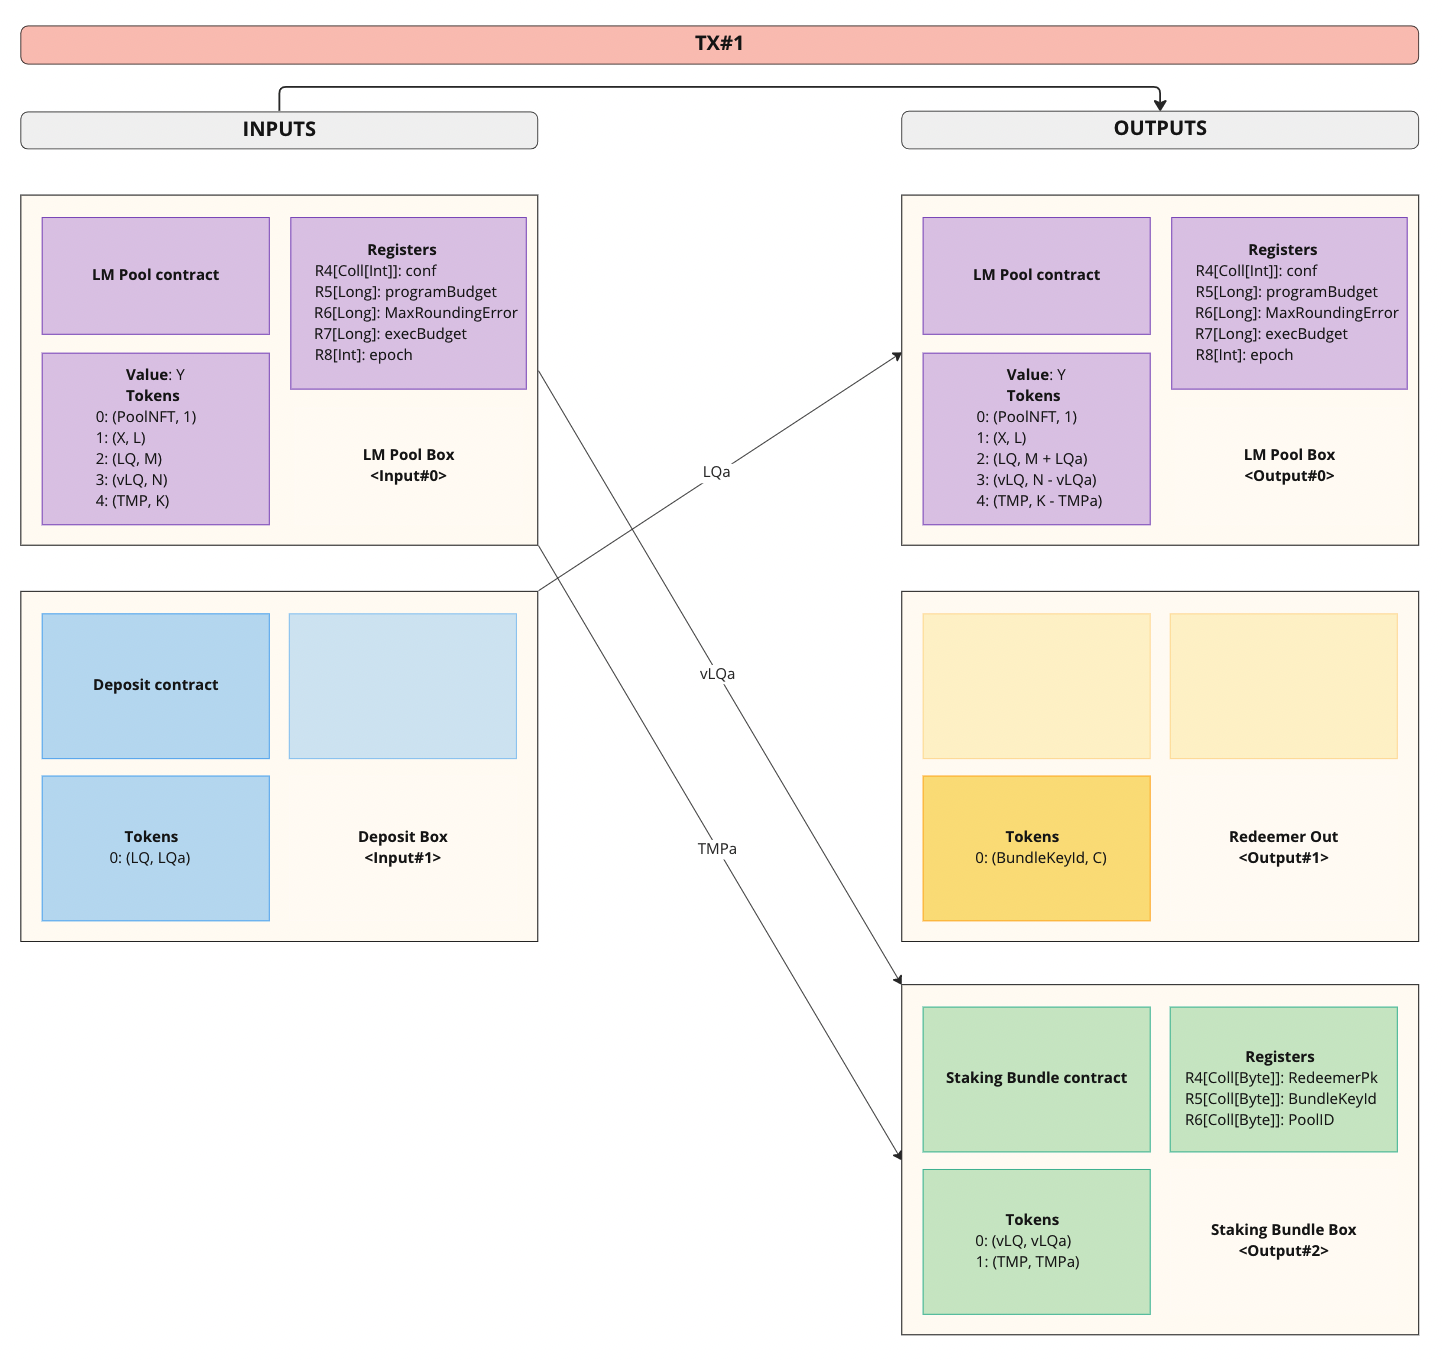
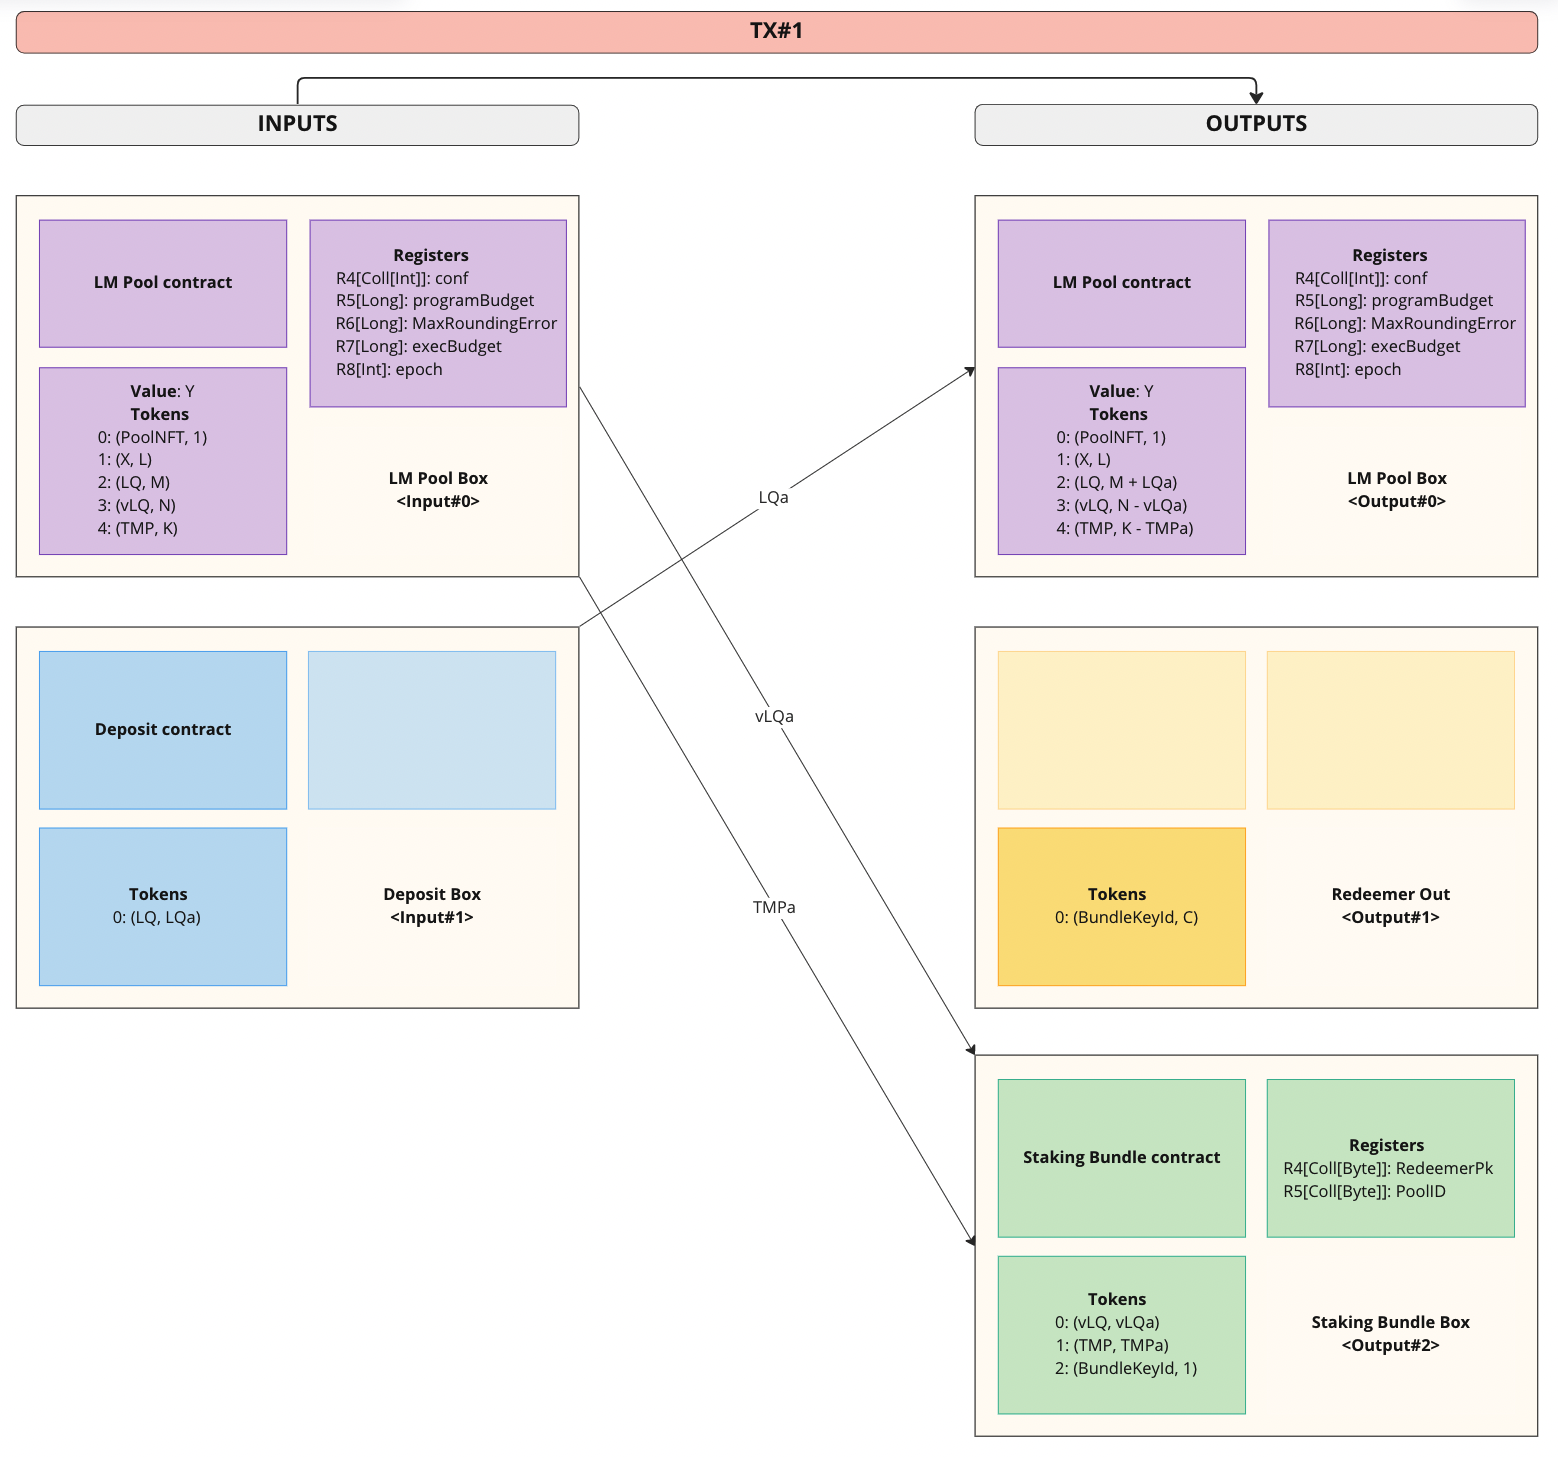
Tests updated.

diff --git a/protocols/LqMiningSimple.md b/protocols/LqMiningSimple.md
@@ -24,23 +24,25 @@ _Notes_:
 * `epoch` **indexing starts from 1**
 
 ### Tokens
-| Name           | Description                            |
-|----------------|----------------------------------------|
-| Pool ID        | An NFT to identify the pool            |
-| Reward token   | Budget of the LM program               |
-| LQ token       | Locked LQ tokens                       |
-| vLQ token      | Tokens representing locked share of LQ |
-| Temporal Token | Left program epochs times liquidity    |
+| Name             | Description                                                           |
+|------------------|-----------------------------------------------------------------------|
+| Pool ID          | An NFT to identify the pool                                           |
+| Reward token     | Budget of the LM program                                              |
+| LQ token         | Locked LQ tokens                                                      |
+| vLQ token        | Tokens representing locked share of LQ                                |
+| Temporal Token   | Left program epochs times liquidity                                   |
+| Bundle Key Token | Token that is used to identify the ownership of the Staking bundle    |
 
 ## Staking bundle
 Staking bundle is responsible for holding vLQ and Temporal tokens (Tmp). Staking bundle script guarantees bundling of
 tokens and controls Compounding and Redeem operations (see "User scenarios" below).
 
 ### Tokens
-| Name | Description                                              |
-|------|----------------------------------------------------------|
-| vLQ  | Virtual LQ token. Represents certain amount of liquidity |
-| TMP  | Temporal token                                           |
+| Name             | Description                                              |
+|------------------|----------------------------------------------------------|
+| vLQ              | Virtual LQ token. Represents certain amount of liquidity |
+| TMP              | Temporal token                                           |
+| Bundle Key Token | Token to identify the ownership                          |
 
 
 ## User scenarios
@@ -80,6 +82,7 @@ She also gets a token `(BundleKeyId, C)`, which will be needed for "Staking bund
 _Notes_:
 * If the user wants to add more LQ tokens, a new "Staking bundle" will be released
 * New "Staking bundle" **can't be released until all previous epochs are compounded**
+* Amount of received Bundle Key Tokens is 0x7fffffffffffffffL - 1L
 
 #### Reward
 After each epoch rewards, allocated for each epoch, are fully distributed among stakers. 
